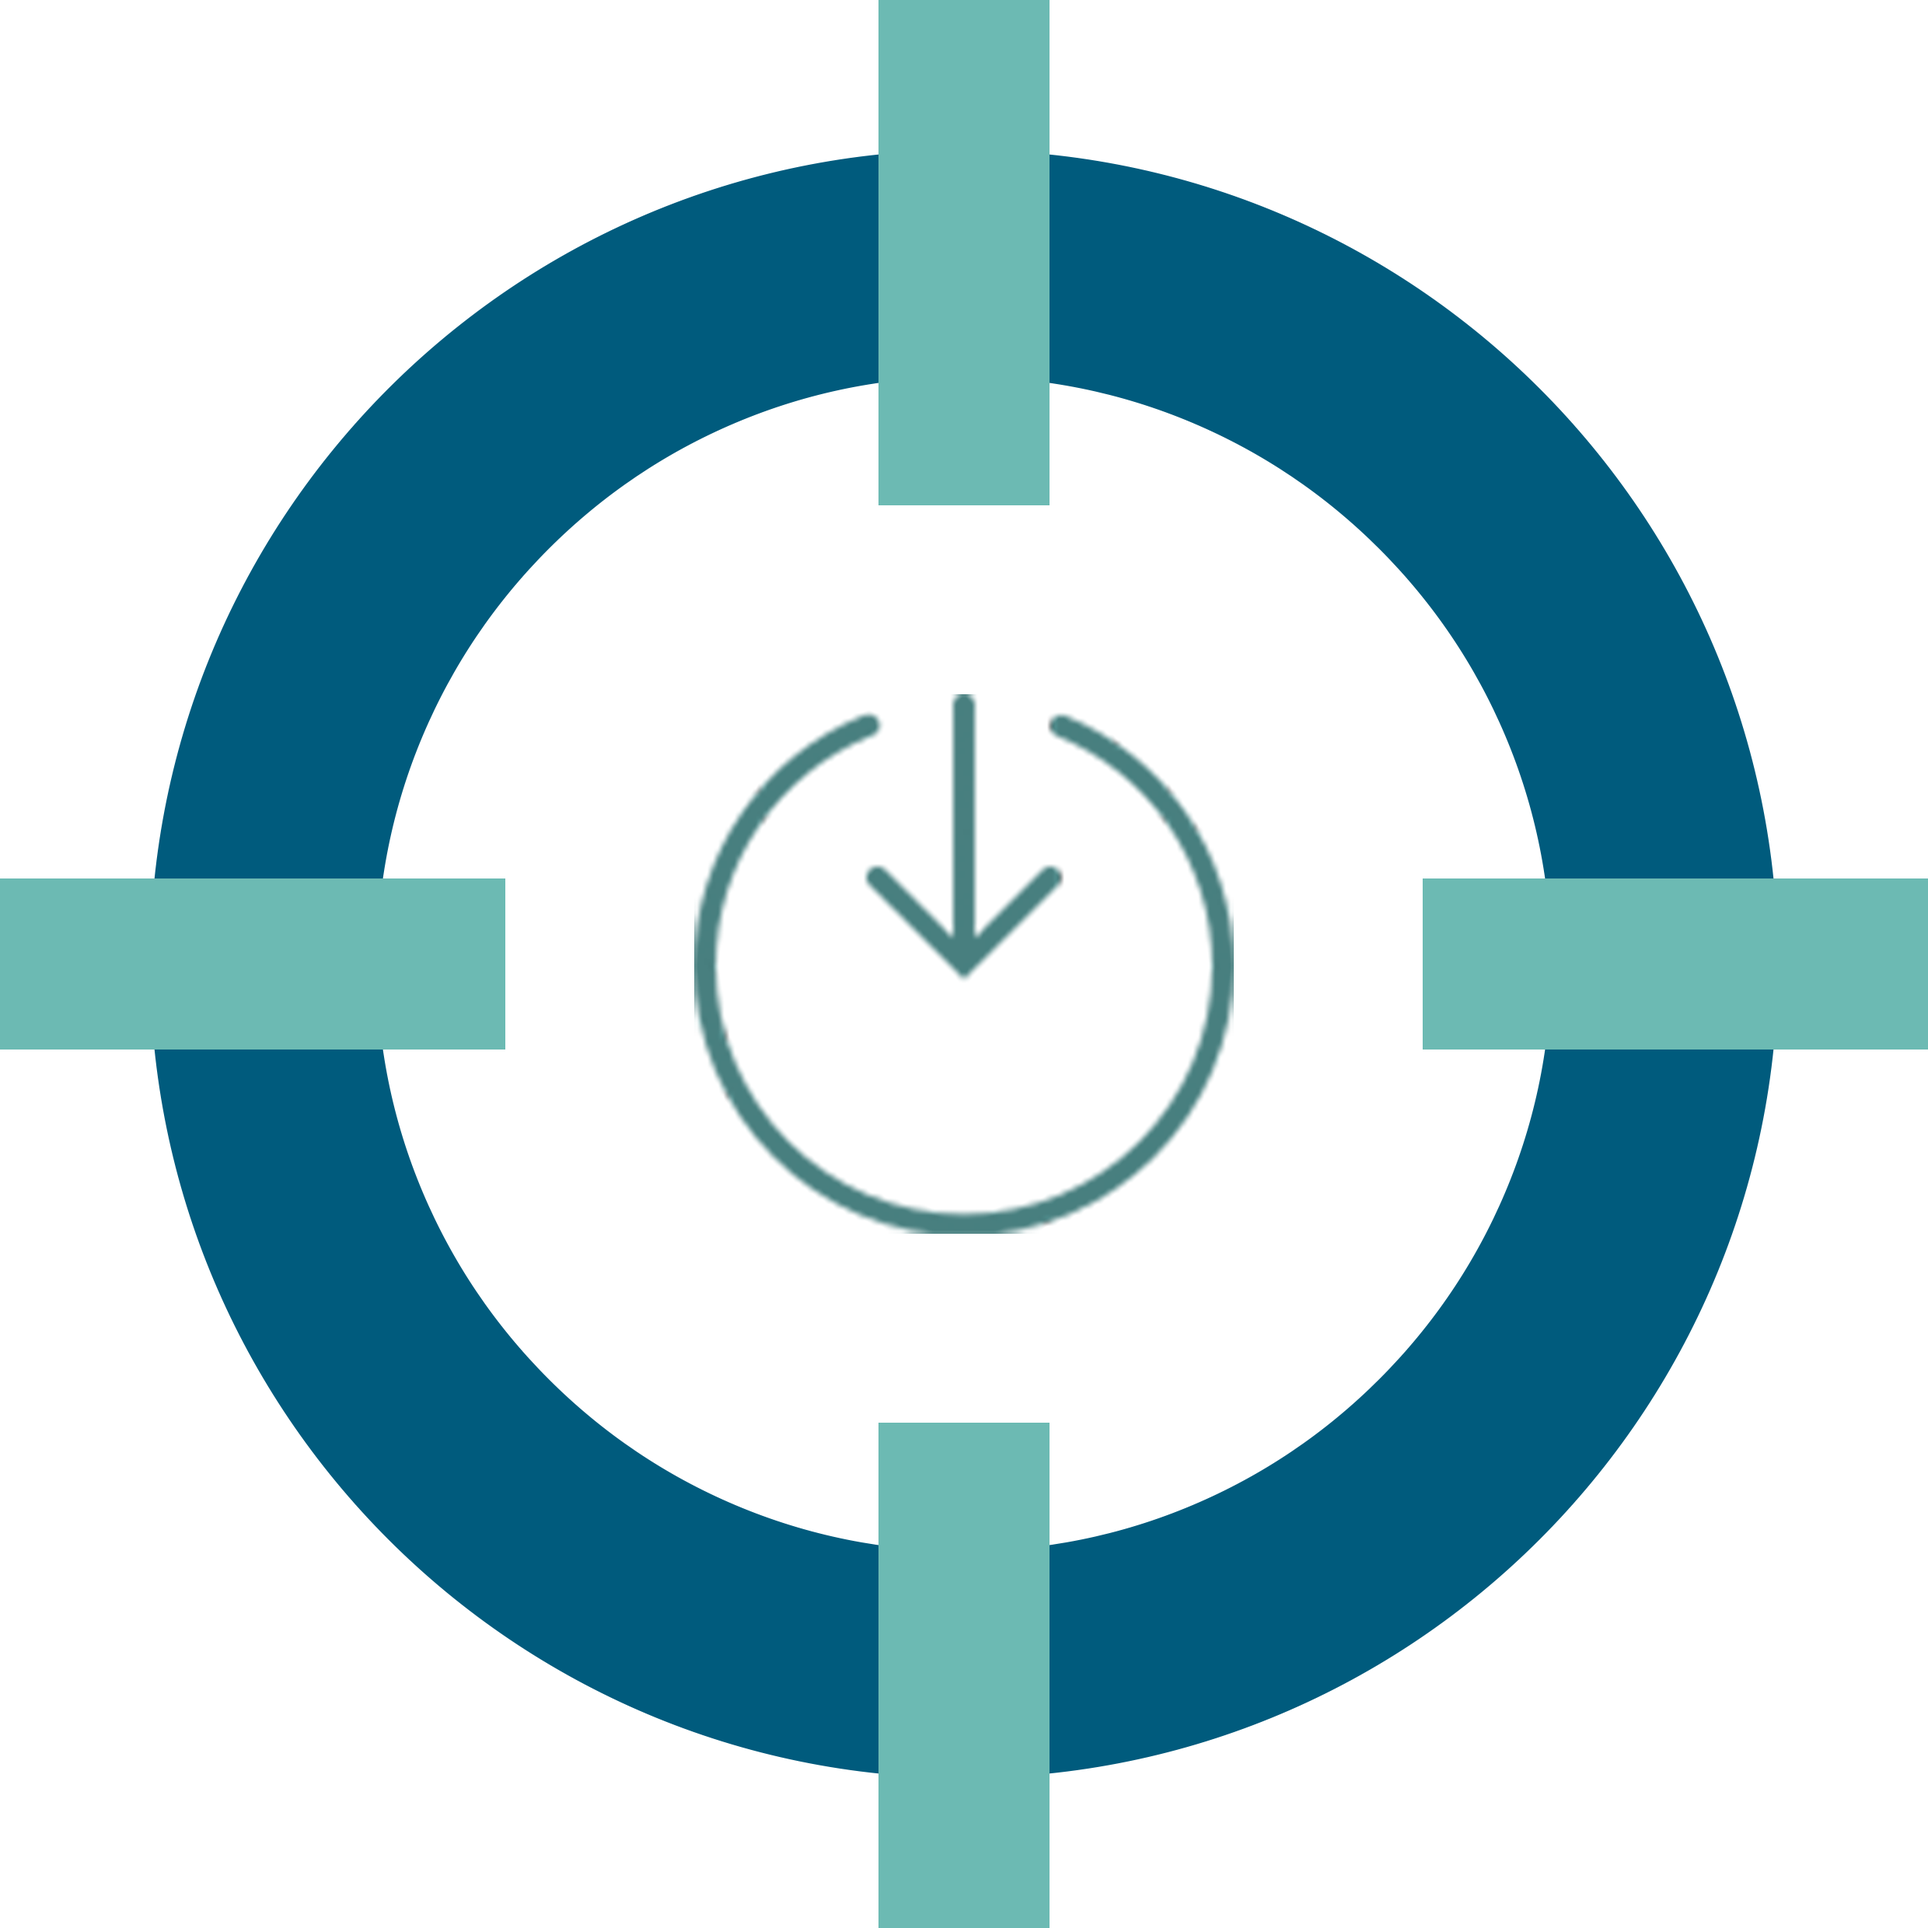
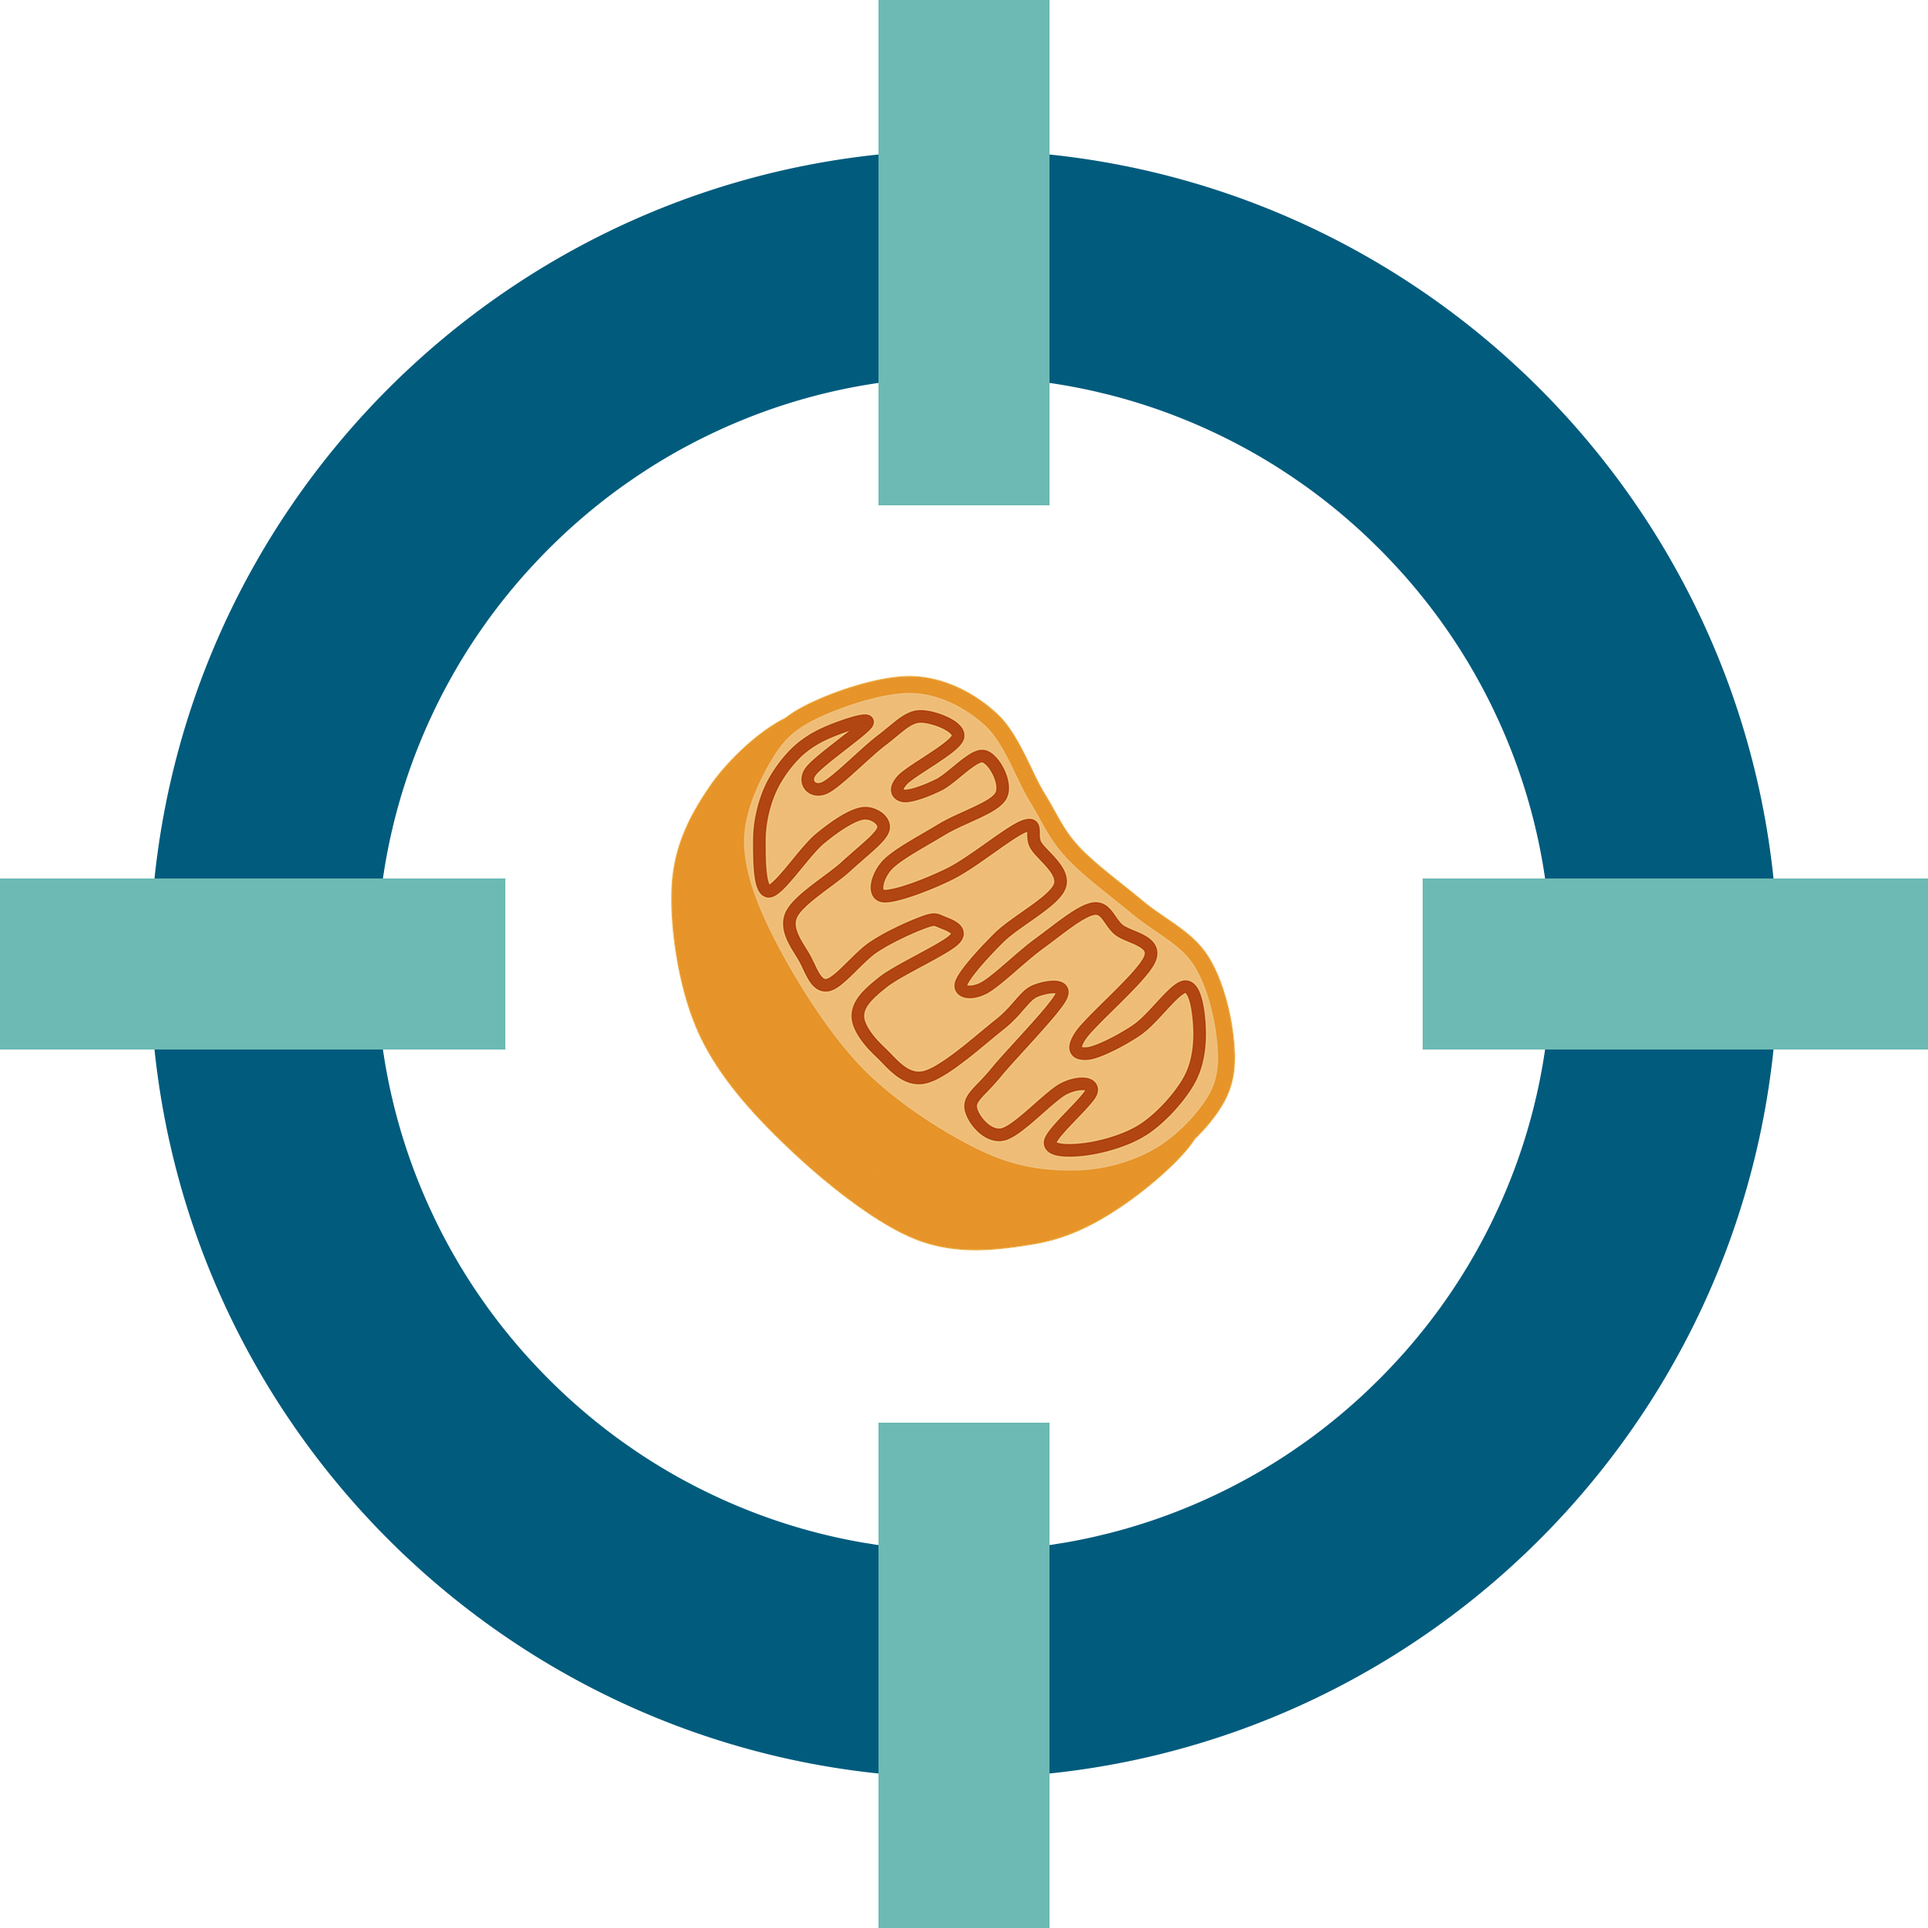
Status for 2DXtals changed, WebKitWidgets not needed anymore

Changed region(s): [[0.3415, 0.3415, 0.652, 0.652]]

diff --git a/apps/src/widgets/StatusViewer.cpp b/apps/src/widgets/StatusViewer.cpp
@@ -1,51 +1,152 @@
-#include <StatusViewer.h>
+#include <QtWidgets>
 
-void StatusViewer::initialize() {
-    setFixedHeight(80);
-    setTextSizeMultiplier(0.8);
-    timer.setSingleShot(true);
-    data = NULL;
-    connect(&watcher, SIGNAL(fileChanged(const QString &)), this, SLOT(timedLoad()));
-    connect(page()->mainFrame(), SIGNAL(javaScriptWindowObjectCleared()), this, SLOT(loaded()));
-    connect(&timer, SIGNAL(timeout()), this, SLOT(load()));
+#include "StatusViewer.h"
+
+StatusViewer::StatusViewer(ProjectImage* image, QWidget* parent)
+: QWidget(parent) {
+    setFixedHeight(150);
+    timer_.setSingleShot(true);
+    image_ = image;
+    watcher_.setFile(image->cfgFile());
+    
+    connect(&watcher_, SIGNAL(fileChanged(const QString &)), this, SLOT(timedLoad()));
+    connect(&timer_, SIGNAL(timeout()), this, SLOT(load()));
+    
+    setLayout(initializeLayout());
 }
 
-StatusViewer::StatusViewer(QWidget *parent)
-: QWebView(parent) {
-    initialize();
+QHBoxLayout* StatusViewer::initializeLayout() {
+    QHBoxLayout* mainLayout = new QHBoxLayout();
+    mainLayout->setSpacing(0);
+    mainLayout->setMargin(0);
+    mainLayout->addStretch(0);
+    
+    //Initialize the mag and qval fields
+    magLabel_ = new QLabel;
+    qvalLabel_ = new QLabel;
+    
+    QFormLayout* rtlayout = new QFormLayout();
+    rtlayout->setMargin(0);
+    rtlayout->addRow("Calculated Mag: ", magLabel_);
+    rtlayout->addRow("Last QVAL: ", qvalLabel_);
+    
+    phaseResLabel_ = new QLabel;
+    numSpotsLabel_ = new QLabel;
+    
+    QFormLayout* ltlayout = new QFormLayout();
+    ltlayout->setMargin(0);
+    ltlayout->addRow("Sym. PhaRes: ", phaseResLabel_);
+    ltlayout->addRow("# of spots: ", numSpotsLabel_);
+    
+    QHBoxLayout* layout = new QHBoxLayout();
+    layout->setSpacing(5);
+    layout->setMargin(0);
+    layout->addLayout(rtlayout);
+    layout->addLayout(ltlayout);
+    
+    //Initialize the bins table
+    binsTable_ = prepareTable(2, 6);
+    binsTable_->horizontalHeader()->hide();
+    binsTable_->setVerticalHeaderLabels(QStringList() << "Resolution [A]" << "#");
+    
+    //Initialize the qval table
+    qvalTable_ = prepareTable(4, 7);
+
+    QStringList labels;
+    labels << tr("IQ1") << tr("IQ2") << tr("IQ3") << tr("IQ4") << tr("IQ5") << tr("IQ6") << tr("QVAL");
+    qvalTable_->setHorizontalHeaderLabels(labels);
+    qvalTable_->setVerticalHeaderLabels(QStringList() << "Unbend I" << "Unbend II" << "Movie A" << "Movie B");
+    
+    //Initialize the tilt table
+    tiltTable_ = prepareTable(4, 4);
+    tiltTable_->setVerticalHeaderLabels(QStringList() << tr("Defocus") << tr("Lattice") << tr("Spot Split") << tr("Merge"));
+    tiltTable_->setHorizontalHeaderLabels(QStringList() << "Grid TAxis" << "Grid TAngle" << "Xtal TAxis" << "Xtal TAngle");
+    
+    //Arrange everything in a layout
+    QVBoxLayout* firstColLayout = new QVBoxLayout();
+    firstColLayout->setMargin(0);
+    firstColLayout->setSpacing(2);
+    firstColLayout->addLayout(layout);
+    firstColLayout->addStretch(1);
+    firstColLayout->addWidget(new QLabel("Power Bins:"));
+    firstColLayout->addWidget(binsTable_);
+    QWidget* firstCol = new QWidget;
+    firstCol->setLayout(firstColLayout);
+    
+    mainLayout->addWidget(firstCol, 1);
+    mainLayout->addWidget(qvalTable_, 1);
+    mainLayout->addWidget(tiltTable_, 1);
+    
+    return mainLayout;
 }
 
-StatusViewer::StatusViewer(const QString &file, const QString &source, QWidget *parent)
-: QWebView(parent) {
-    initialize();
-    if (!source.isEmpty()) {
-        if (QFileInfo(file).exists()) QFile::remove(file);
-        QFile::copy(source, file);
-    }
-    setFile(file);
-}
-
-void StatusViewer::setFile(const QString &file) {
-    filePath = file;
-    watcher.setFile(file);
-}
-
-void StatusViewer::setConf(ParametersConfiguration *conf) {
-    if (data != conf && data != NULL)
-        disconnect(data, SIGNAL(dataModified(bool)), this, SLOT(timedLoad()));
-    data = conf;
-    connect(data, SIGNAL(dataModified(bool)), this, SLOT(timedLoad()));
-}
 
 void StatusViewer::load() {
-    QWebView::load(QUrl::fromLocalFile(filePath));
+    //Load the data
+    if(image_) {
+        
+        ParametersConfiguration* conf = image_->parameters();
+        magLabel_->setText(conf->getValue("CALCULATEDMAG"));
+        qvalLabel_->setText(conf->getValue("QVAL"));
+        phaseResLabel_->setText(conf->getValue("PHARES_SYM"));
+        numSpotsLabel_->setText(conf->getValue("PHARES_NUM_SPOTS"));
+        
+        loadTable(binsTable_, conf, QStringList() << "RB" << "RP", QStringList() << "1" << "2" << "3" << "4" << "5" << "6", "_");
+        loadTable(qvalTable_, conf, QStringList() << "U1" << "U2" << "UMA" << "UMB", 
+                QStringList() << "IQ1" << "IQ2" << "IQ3" << "IQ4" << "IQ5" << "IQ6", "_");
+        loadTable(tiltTable_, conf, QStringList() << "DEFOCUS" << "LATTICE" << "TTREFINE" << "MERGE",
+                QStringList() << "TLTAXIS" << "TLTANG" << "TAXA" << "TANGL", "_");
+        
+        //Manually get the QVALs (as they are not in the format row_col)
+        qvalTable_->item(0, 6)->setText(conf->getValue("QVAL1"));
+        qvalTable_->item(1, 6)->setText(conf->getValue("QVAL2"));
+        qvalTable_->item(2, 6)->setText(conf->getValue("QVALMA"));
+        qvalTable_->item(3, 6)->setText(conf->getValue("QVALMB"));
+        
+    }
+    
 }
 
-void StatusViewer::loaded() {
-    if (data != NULL) page()->mainFrame()->addToJavaScriptWindowObject("config", data);
+void StatusViewer::loadTable(QTableWidget* table, ParametersConfiguration* conf, const QStringList& rows, const QStringList& cols, const QString& sep) {
+    for(int row=0; row < rows.size(); ++row) {
+        for(int col=0; col < cols.size(); ++col) {
+            QString param = rows[row] + sep + cols[col];
+            table->item(row, col)->setText(conf->getValue(param));
+        }
+    }
+
+    //table->resizeColumnsToContents();
 }
+
+QTableWidget* StatusViewer::prepareTable(int rows, int cols) {
+    QTableWidget* table = new QTableWidget(this);
+    table->setColumnCount(cols);
+    table->setRowCount(rows);
+    table->setSelectionBehavior(QAbstractItemView::SelectRows);
+    table->setAttribute(Qt::WA_MacShowFocusRect, 0);
+    table->setShowGrid(false);
+    table->setAlternatingRowColors(true);
+    table->setSortingEnabled(false);
+
+    for (int c = 0; c < cols; ++c) {
+        table->horizontalHeader()->setSectionResizeMode(c, QHeaderView::Stretch);
+    }
+    
+    for(int row=0; row<rows; ++row) {
+        for(int col=0; col<cols; ++col){
+            QTableWidgetItem* tableItem = new QTableWidgetItem();
+            tableItem->setFlags(tableItem->flags() ^ Qt::ItemIsEditable);
+            tableItem->setTextAlignment(Qt::AlignRight);
+            tableItem->setText("--");
+            table->setItem(row, col, tableItem);
+        }
+    }
+    
+    return table;
+}
+
 
 void StatusViewer::timedLoad() {
-    timer.start(100);
+    timer_.start(100);
 }
 

diff --git a/apps/src/widgets/StatusViewer.h b/apps/src/widgets/StatusViewer.h
@@ -1,41 +1,45 @@
 #ifndef _STATUSVIEWER_H_
 #define _STATUSVIEWER_H_
 
-#include <QApplication>
-#include <QDesktopWidget>
-#include <QLabel>
-#include <QWebView>
-#include <QWebPage>
-#include <QWebFrame>
-#include <QFile>
-#include <QTimer>
+#include <QWidget>
 #include <QDebug>
+#include <QTimer>
+#include <QLabel>
+#include <QTableWidget>
+#include <QHBoxLayout>
 
 #include "FileWatcher.h"
-#include "ParameterConfiguration.h"
+#include "ProjectImage.h"
 
-class StatusViewer : public QWebView {
+class StatusViewer : public QWidget {
     Q_OBJECT
 
 public:
-    StatusViewer(QWidget *parent = NULL);
-    StatusViewer(const QString &file, const QString &source = "", QWidget *parent = NULL);
+    StatusViewer(ProjectImage* image, QWidget *parent = NULL);
 
 public slots:
-    void setFile(const QString &file);
-    void setConf(ParametersConfiguration *conf);
     void load();
-    void loaded();
     void timedLoad();
 
 private:
-    QString filePath;
-    FileWatcher watcher;
-    ParametersConfiguration *data;
 
-    QTimer timer;
+    QHBoxLayout* initializeLayout();
+    void loadTable(QTableWidget* table, ParametersConfiguration* conf, const QStringList& rows, const QStringList& cols, const QString& sep);
+    QTableWidget* prepareTable(int rows, int cols);
+    
+    QTableWidget* binsTable_;
+    QTableWidget* qvalTable_;
+    QTableWidget* tiltTable_;
+    ProjectImage* image_;
+    
+    QTimer timer_;
+    FileWatcher watcher_;
+    
+    QLabel* magLabel_;
+    QLabel* qvalLabel_;
+    QLabel* phaseResLabel_;
+    QLabel* numSpotsLabel_;
 
-    void initialize();
 };
 
 #endif

diff --git a/apps/focus/ExecutionWindow.cpp b/apps/focus/ExecutionWindow.cpp
@@ -81,8 +81,7 @@ ExecutionWindow::ExecutionWindow(const QStringList& moduleDirs, ProjectImage* im
 
     //For Image add the status container
     if (image_ && projectData.projectMode().toInt() == 1) {
-        StatusViewer* statusParser = new StatusViewer(ApplicationData::configDir().absolutePath() + "/2dx_status.html");
-        statusParser->setConf(getConf());
+        StatusViewer* statusParser = new StatusViewer(image_);
         statusParser->load();
         BlockContainer* statusParserCont = new BlockContainer("Status", statusParser);
         addVisibilityButton("Status", statusParserCont, true);
